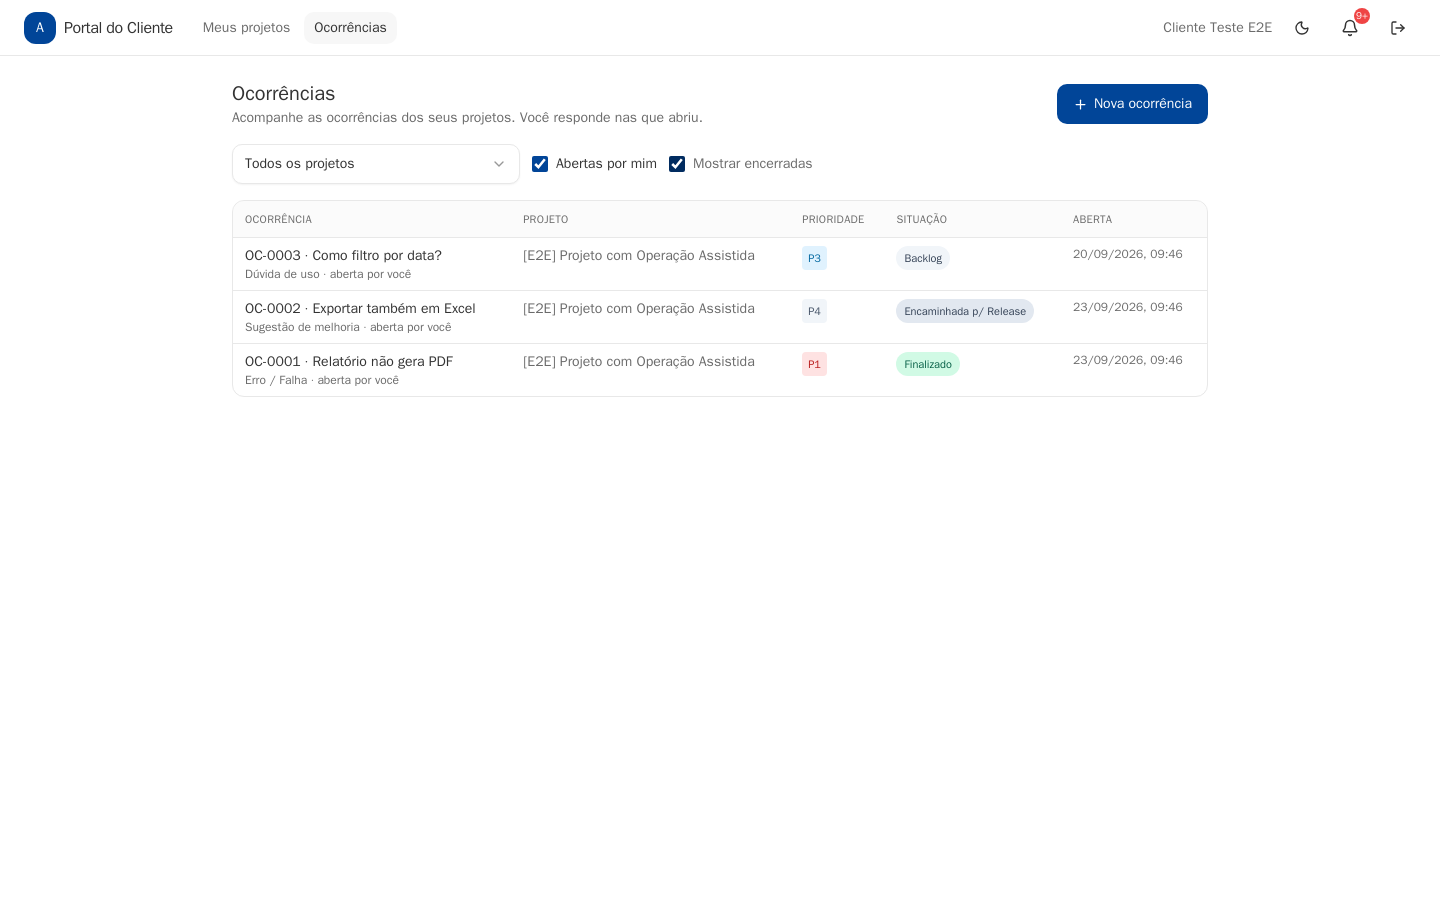
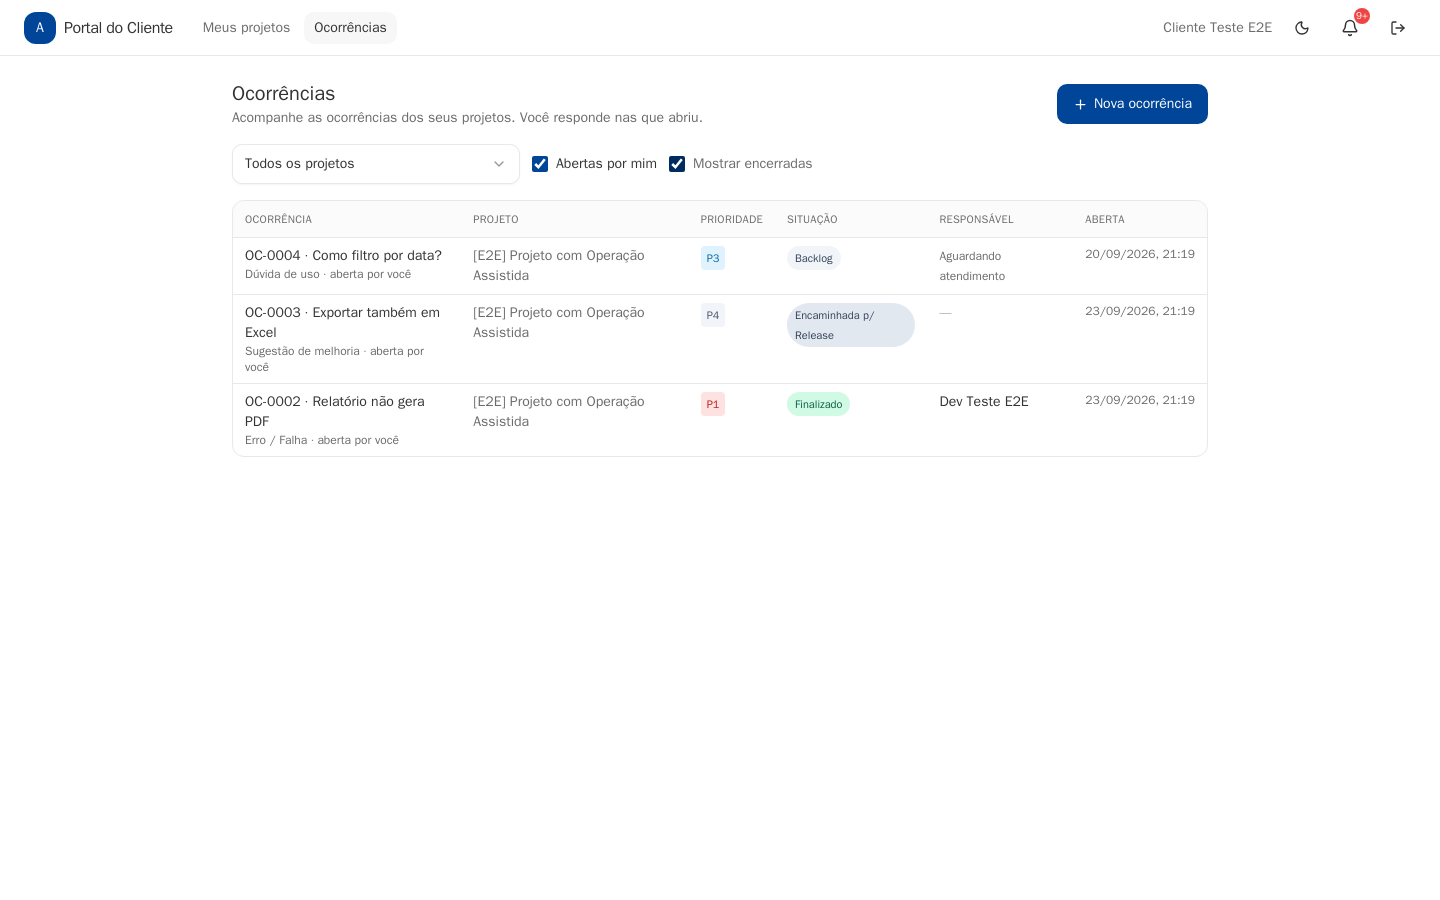
feat(portal): lista de ocorrências mostra quem assumiu
Coluna "Responsável" no Portal do Cliente com o nome de quem assumiu a ocorrência;
sem responsável mostra "Aguardando atendimento".

diff --git a/frontend/src/modules/portal/ClientOccurrencesPage.tsx b/frontend/src/modules/portal/ClientOccurrencesPage.tsx
@@ -122,6 +122,7 @@ export default function ClientOccurrencesPage() {
                 <th className="px-3 py-2 font-semibold">Projeto</th>
                 <th className="px-3 py-2 font-semibold">Prioridade</th>
                 <th className="px-3 py-2 font-semibold">Situação</th>
+                <th className="px-3 py-2 font-semibold">Responsável</th>
                 <th className="px-3 py-2 font-semibold">Aberta</th>
               </tr>
             </thead>
@@ -143,6 +144,12 @@ export default function ClientOccurrencesPage() {
                   </td>
                   <td className="px-3 py-2">
                     <StageBadge stageKey={o.stage_key} name={o.stage_name} mine={o.opened_by_me} />
+                  </td>
+                  {/* Quem assumiu no time (antes disso, aguardando alguém assumir). */}
+                  <td className="px-3 py-2">
+                    {o.assignee_name
+                      ? <span className="font-medium">{o.assignee_name}</span>
+                      : <span className="text-xs text-muted-foreground">{o.is_closed ? "—" : "Aguardando atendimento"}</span>}
                   </td>
                   <td className="whitespace-nowrap px-3 py-2 text-xs text-muted-foreground">{fmtDateTime(o.created_at)}</td>
                 </tr>
